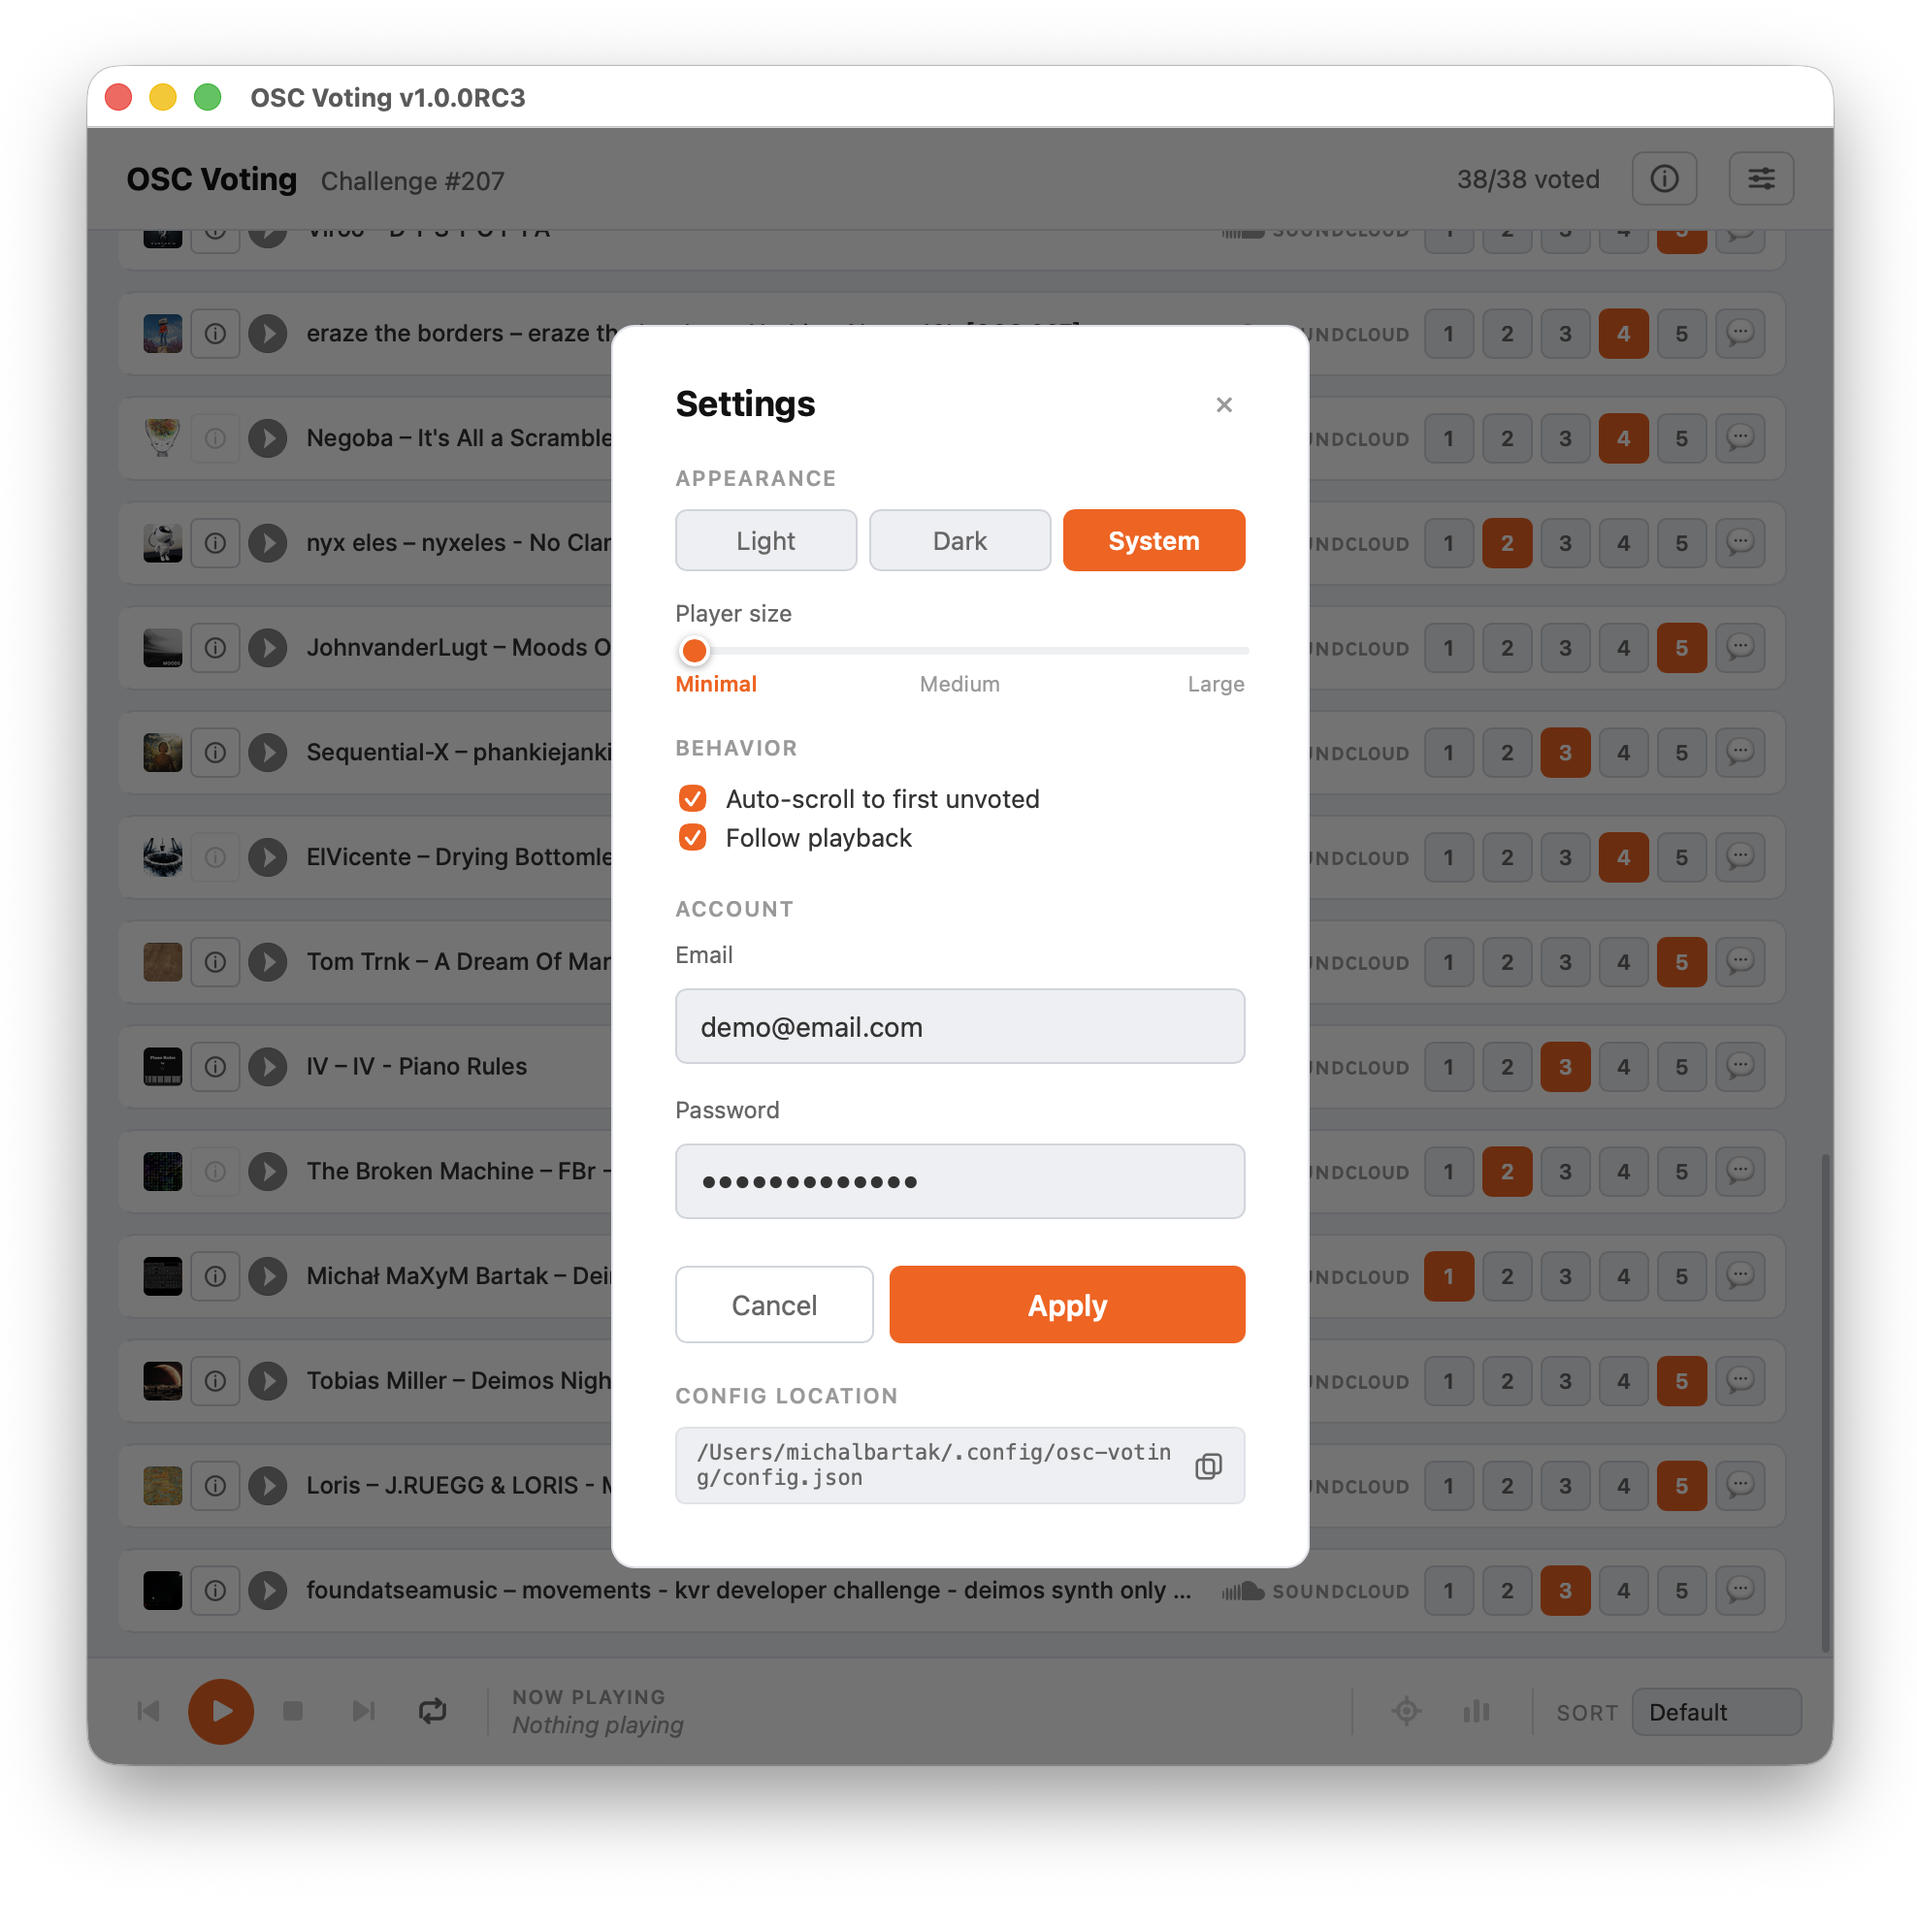
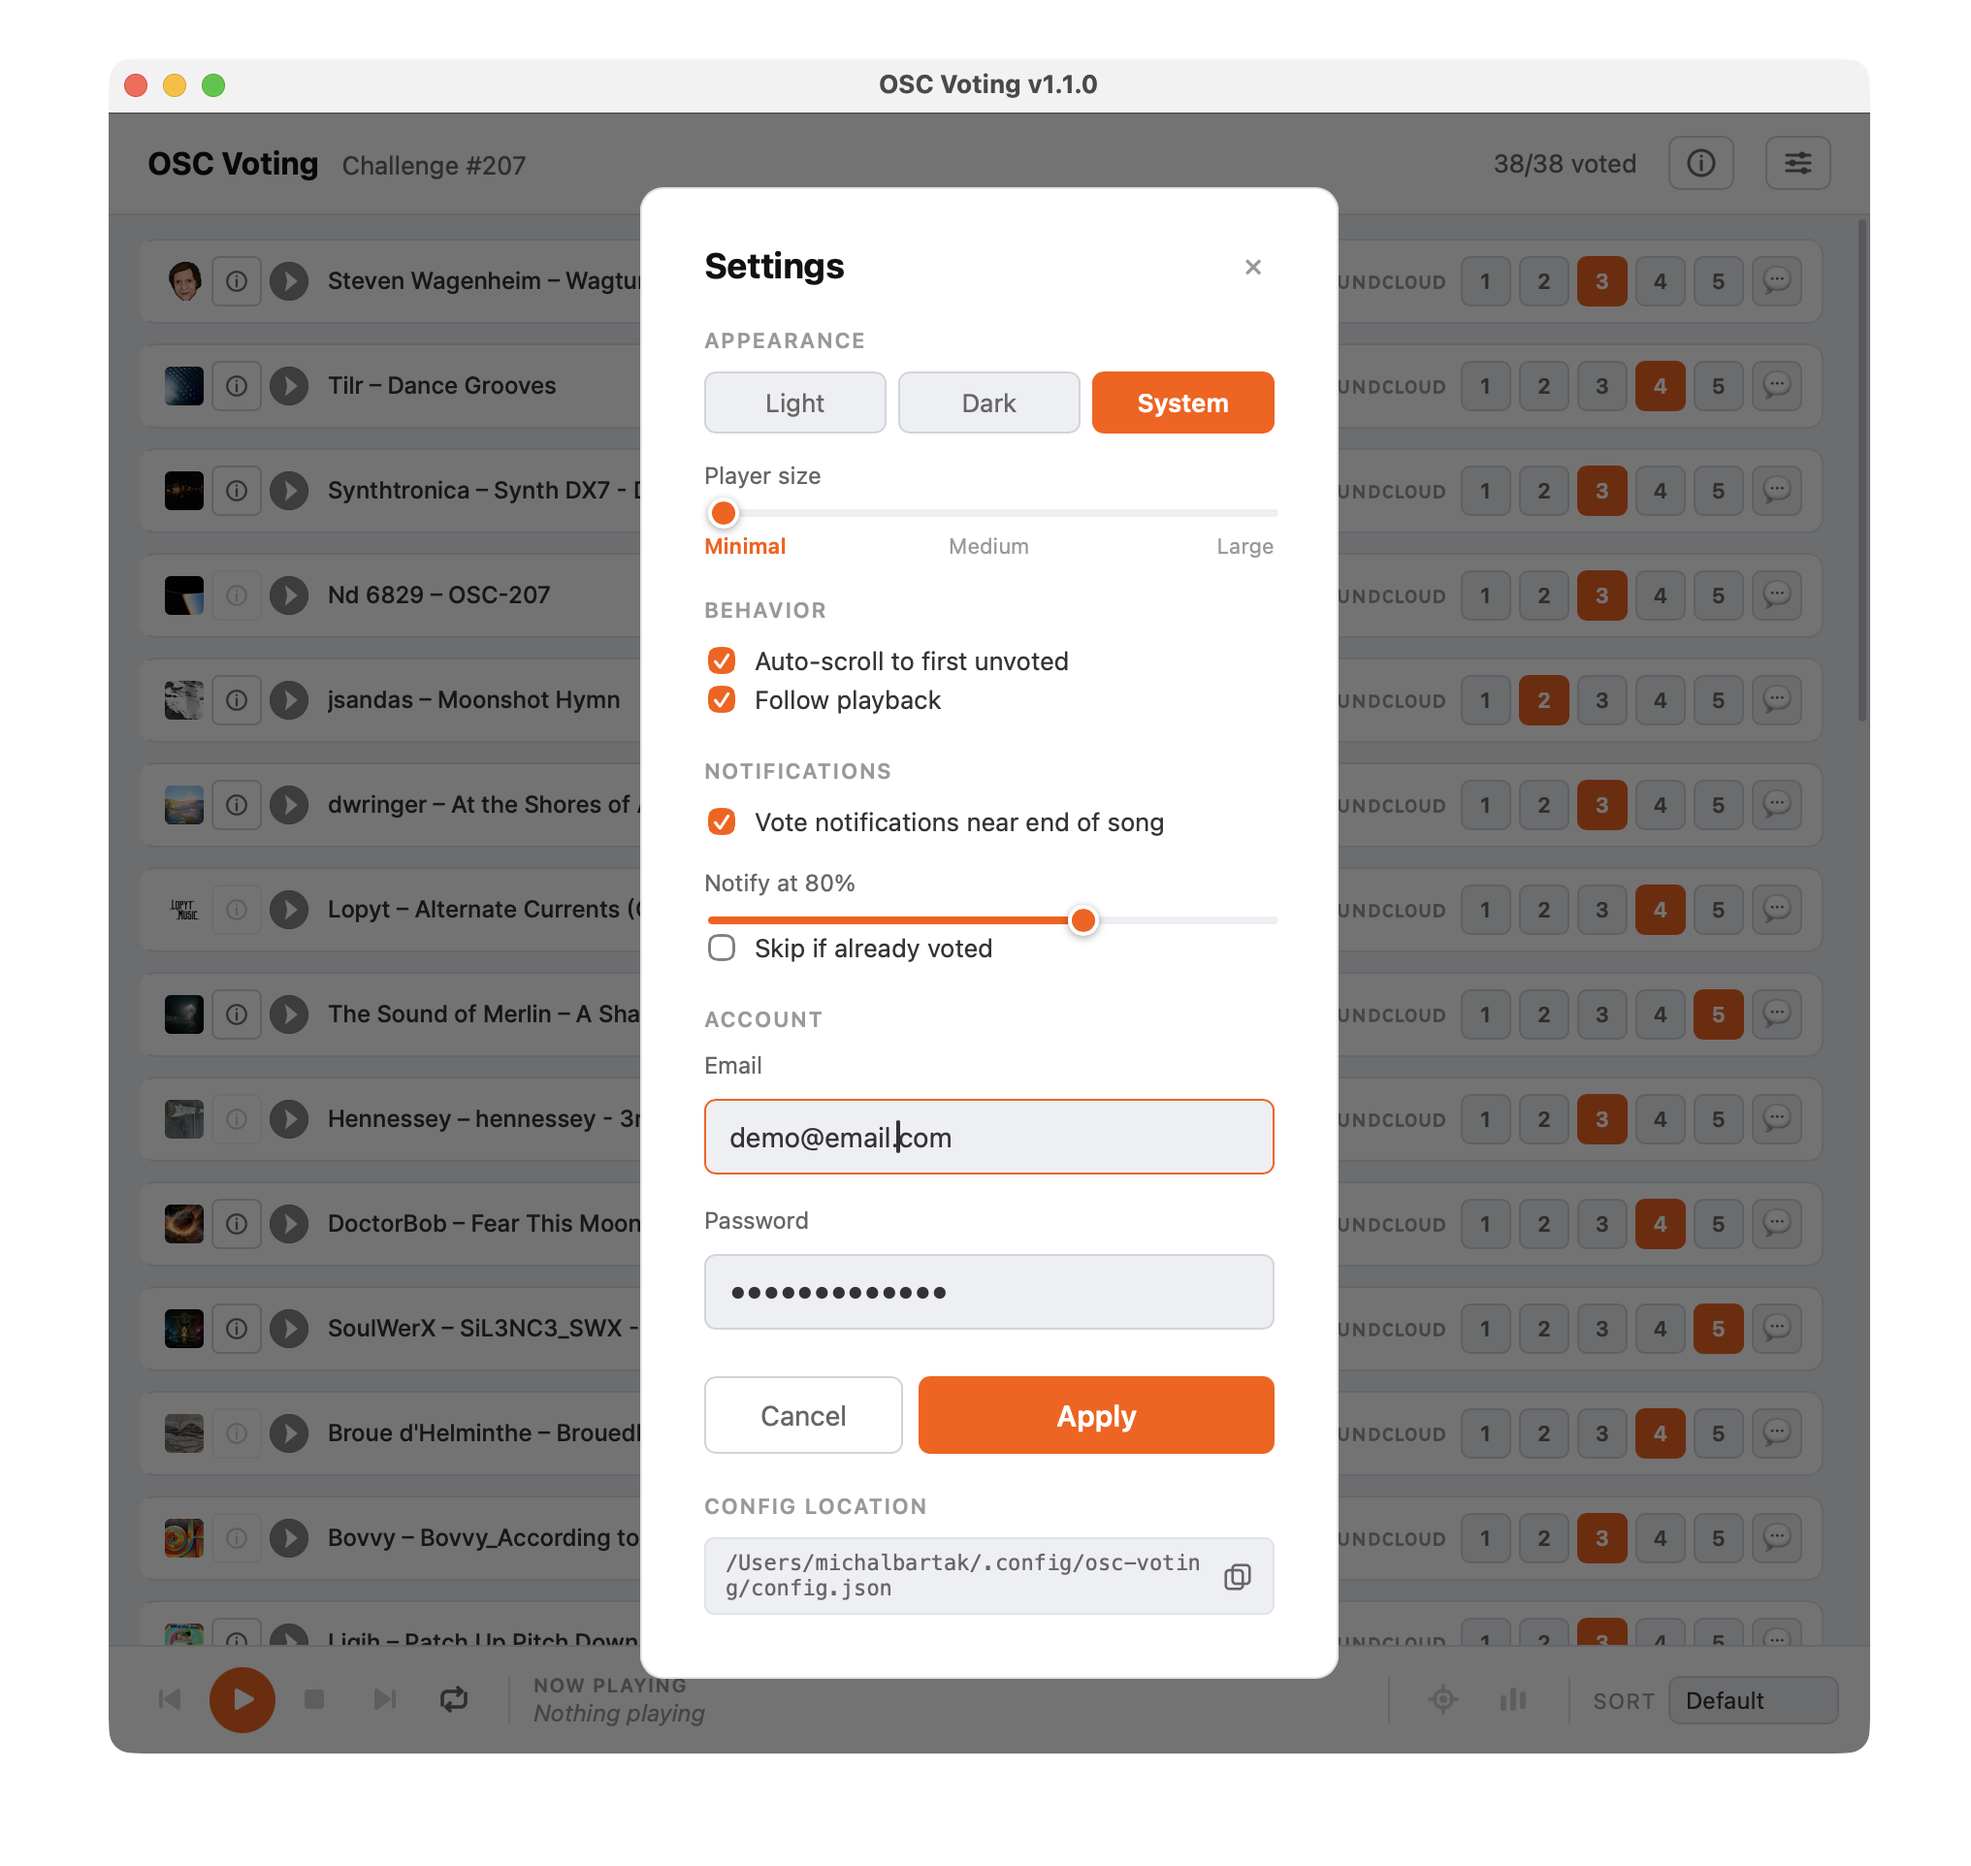
Updating docs

diff --git a/docs/src/content/docs/building.md b/docs/src/content/docs/building.md
@@ -23,16 +23,49 @@ sudo dnf install gtk3-devel webkit2gtk4.1-devel gcc-c++ pkgconf-pkg-config
 On older distros shipping only WebKit 4.0 (Ubuntu 22.04, RHEL 9), remove `"build:tags": "webkit2_41"` from `wails.json` and install `libwebkit2gtk-4.0-dev` / `webkit2gtk3-devel` instead.
 :::
 
-## Commands
+## Getting the source
 
 ```bash
 git clone https://github.com/michal-bartak/OSC-Voting.git
 cd OSC-Voting
 make build        # build for the current platform
-make dev          # hot-reload dev server
 ```
 
-Or invoke Wails directly:
+Output lands in `build/bin/`.
+
+## Make commands
+
+The `Makefile` wraps the common Wails and docs workflows.
+
+### App
+
+| Command | Description |
+|---------|-------------|
+| `make dev` | Hot-reload dev server (Go + Vite HMR). On Linux it sets `GDK_BACKEND=x11` so WebKit2GTK gets GPU-accelerated CSS filters. |
+| `make run` | Run the already-built binary from `build/bin/`. |
+| `make build` | Production build for the current platform (`wails build -clean`). |
+| `make build-linux` | Cross-build for `linux/amd64`. |
+| `make build-windows` | Cross-build for `windows/amd64`. |
+| `make build-all` | Build for macOS, Linux, and Windows in one go. |
+
+:::note
+Cross-compilation (`build-linux`, `build-windows`, `build-all`) requires the matching toolchain for each target and is best left to CI.
+:::
+
+### Documentation site
+
+This site is an [Astro Starlight](https://starlight.astro.build) project in `docs/`. These targets manage it (they auto-run `npm ci` on first use):
+
+| Command | Description |
+|---------|-------------|
+| `make docs` | Hot-reload dev server for live editing. Served at `http://localhost:4321/OSC-Voting/`. |
+| `make docs-build` | Build the static site into `docs/dist/` and stop — no server. Useful to confirm the build succeeds. |
+| `make docs-preview` | Build, then serve the result exactly as GitHub Pages will. Use this as a final check before pushing. |
+
+## Invoking Wails directly
+
+If you'd rather skip the Makefile:
+
 ```bash
 wails build -platform linux/amd64   # or: darwin/universal  windows/amd64
 wails dev
